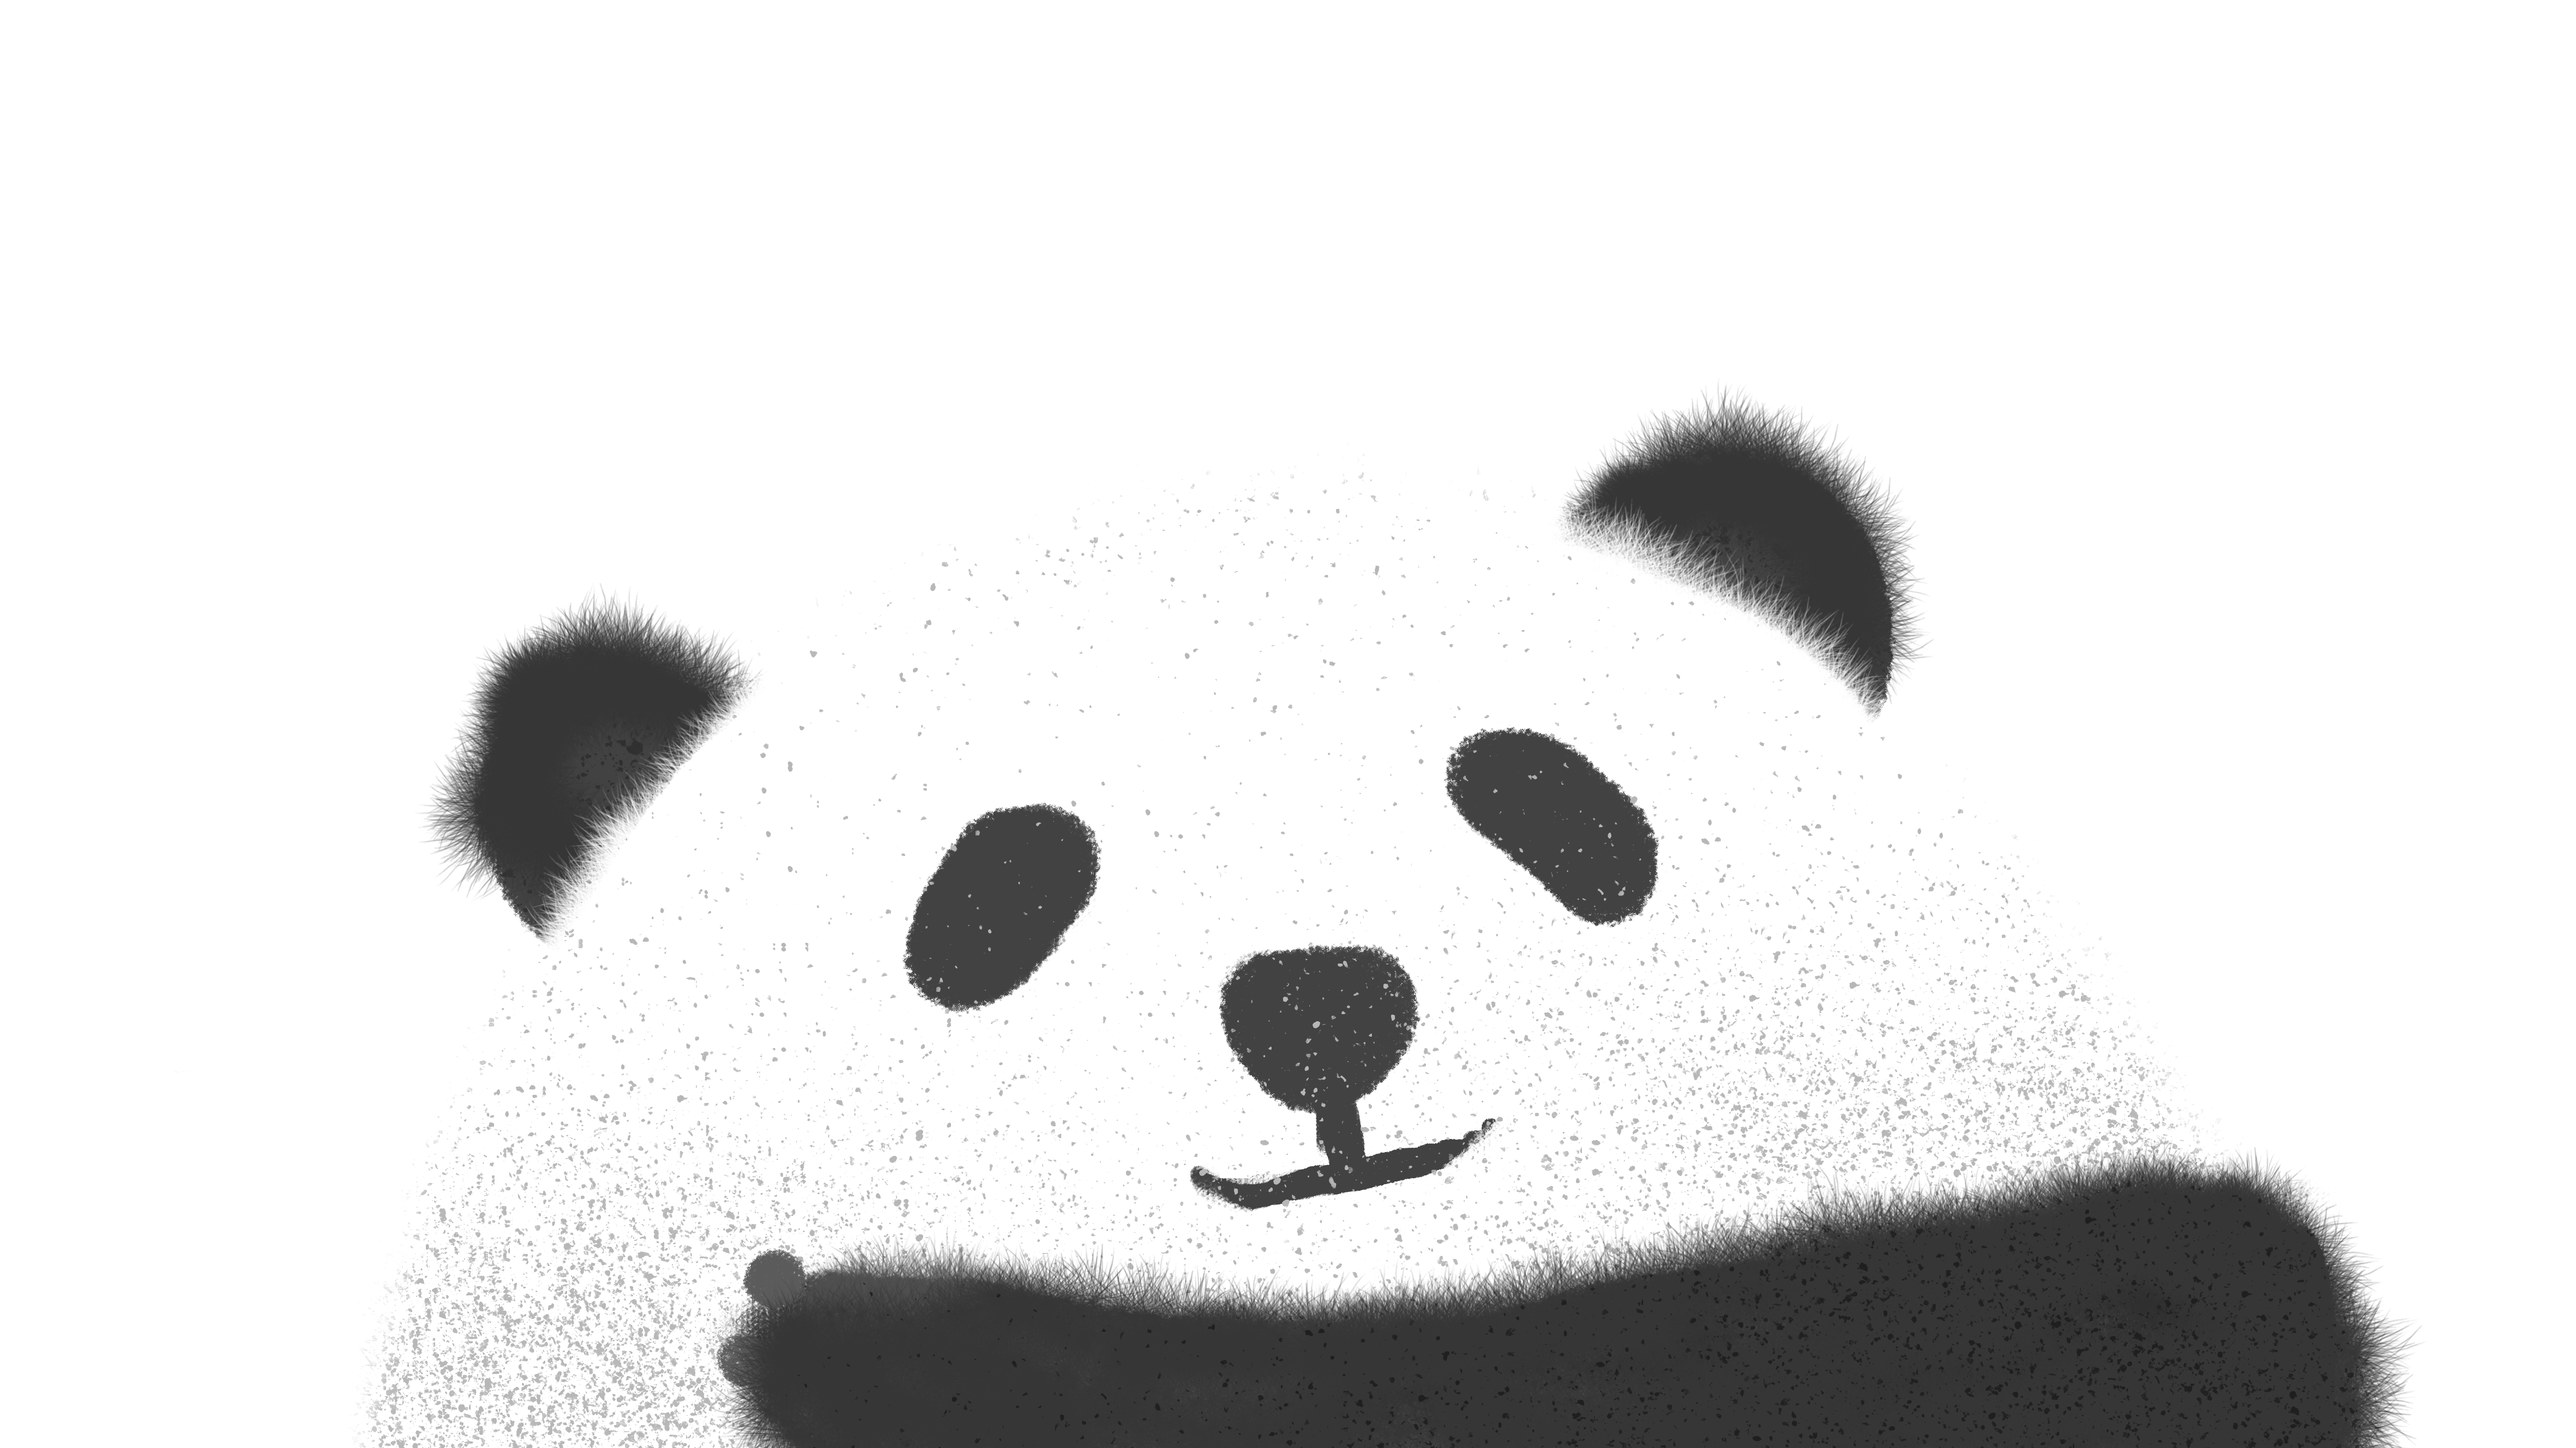
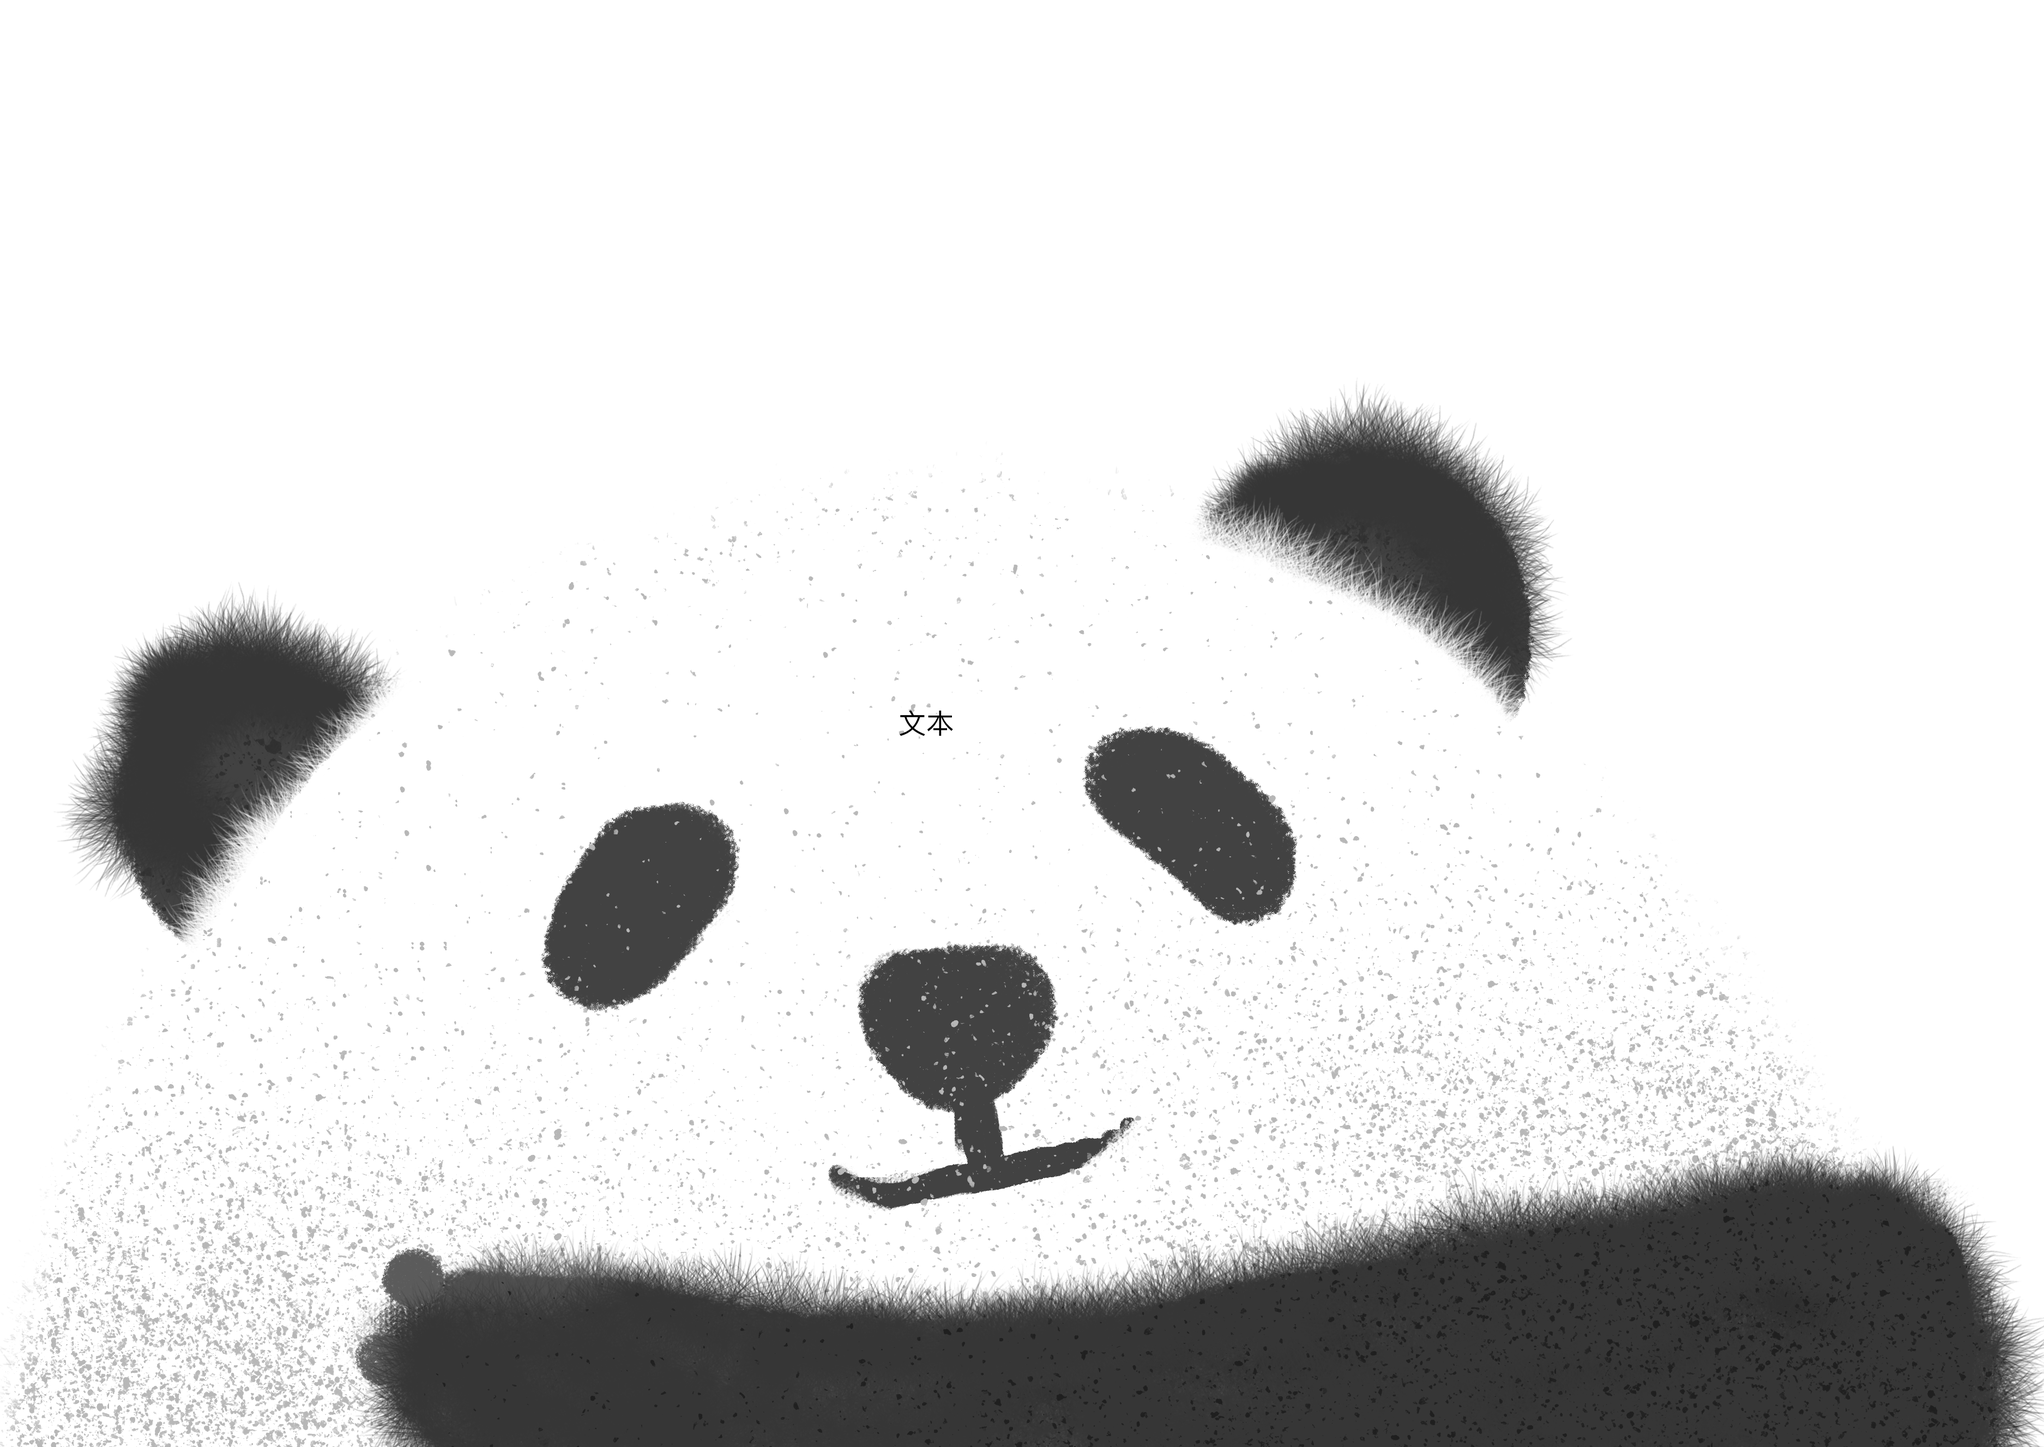
new component panda

diff --git a/src/app/signin/signin.component.html b/src/app/signin/signin.component.html
@@ -3,10 +3,12 @@
   <!-- panda -->
 
     <!-- input form -->
-  <div nz-col nzOffset="9" nzSpan="6">
+  <div nz-col [nzXs]="{offset:2, span:20}" [nzSm]="{offset:5, span:14}" [nzMd]="{offset:6, span: 12}"
+       [nzLg]="{offset:8, span:8}" [nzXl]="{offset:9, span:6}" [nzXl]="{offset:10, span:4}" [nzXXl]="{offset:10, span:4}" nzOffset="9" nzSpan="6">
+
     <div nz-row>
-      <div class="panda" nz-col nzOffset="5" nzSpan="14">
-        <img class="img-response" src="../../assets/img/panda/body.png">
+      <div class="panda" nz-col nzOffset="7" nzSpan="10">
+        <app-panda></app-panda>
       </div>
     </div>
 
@@ -17,17 +19,34 @@
 
       <form  nz-form nzLayout="vertical" [formGroup]="validateForm" class="login-form" (ngSubmit)="submitForm()">
         <nz-form-item >
-          <nz-form-control  nzOffset="1" nzSpan="22">
+          <nz-form-control  nzOffset="1" nzSpan="22" nzHasFeedback>
             <nz-input-group nzPrefixIcon="anticon anticon-user">
-              <input type="text" nz-input formControlName="userName" placeholder="Username">
+              <input type="text" nzSize="small" nz-input formControlName="userName" placeholder="Username or e-mail">
             </nz-input-group>
+            <nz-form-explain *ngIf="validateForm.get('userName').dirty && validateForm.get('userName').errors || validateForm.get('userName').pending ">
+              <ng-container *ngIf="validateForm.get('userName').hasError('required')">
+                Please enter your username or e-mail!
+              </ng-container>
+              <ng-container *ngIf="validateForm.get('userName').hasError('minlength')">
+                too short (minimum is 4 characters)!
+              </ng-container>
+              <ng-container *ngIf="validateForm.get('userName').hasError('maxlength')">
+                too long (maximum is 20 characters)!
+              </ng-container>
+              <ng-container *ngIf="validateForm.get('userName').hasError('forbiddenName')">
+                Username is invalid!
+              </ng-container>
+              <ng-container *ngIf="validateForm.get('userName').hasError('forbiddenEmail')">
+                Email is invalid!
+              </ng-container>
+            </nz-form-explain>
           </nz-form-control>
         </nz-form-item>
 
         <nz-form-item>
           <nz-form-control nzOffset="1" nzSpan="22">
             <nz-input-group nzPrefixIcon="anticon anticon-lock">
-              <input type="text" nz-input formControlName="Password" placeholder="Password">
+              <input type="password" nzSize="small" nz-input formControlName="password" placeholder="Password">
             </nz-input-group>
           </nz-form-control>
         </nz-form-item>

diff --git a/src/app/signin/forbidden-signin.ts b/src/app/signin/forbidden-signin.ts
@@ -1,35 +1,36 @@
-import {AbstractControl, Validator, ValidatorFn, Validators} from '@angular/forms';
+import {AbstractControl, ValidatorFn} from '@angular/forms';
 
+const at: RegExp = /^.*[@]+.*$/
 const email: RegExp = /^([A-Za-z0-9_\-\.])+\@([A-Za-z0-9_\-\.])+\.([A-Za-z]{2,4})$/ ;
-const username: RegExp = /^[a-zA-Z0-9_-]{4,16}$/ ;
+const username: RegExp = /^[a-zA-Z0-9_-]*$/ ;
 
 export function forbiddenUsernameValidator(): ValidatorFn {
   return (control: AbstractControl): {[key: string]: any} | null => {
     let forbidden: Boolean;
-    if (email.test(control.value)) {
+    if (at.test(control.value)) {
+      forbidden = false;
+    } else {
       if (username.test(control.value)) {
         forbidden = false;
       } else {
         forbidden = true;
       }
-    } else {
-      forbidden = true;
     }
-    return null;
+    return forbidden ? {'forbiddenName': {value: control.value}} : null;
   };
 }
 export function forbiddenEmailValidator(): ValidatorFn {
   return (control: AbstractControl): {[key: string]: any} | null => {
     let forbidden: Boolean;
-    if (email.test(control.value)) {
-      if (username.test(control.value)) {
+    if (!at.test(control.value)) {
+      forbidden = false;
+    } else {
+      if (email.test(control.value)) {
         forbidden = false;
       } else {
         forbidden = true;
       }
-    } else {
-      forbidden = true;
     }
-    return null;
+    return forbidden ? {'forbiddenEmail': {value: control.value}} : null;
   };
 }

diff --git a/src/app/signin/signin.component.ts b/src/app/signin/signin.component.ts
@@ -1,9 +1,10 @@
 import { Component, OnInit } from '@angular/core';
+import { forbiddenUsernameValidator, forbiddenEmailValidator} from './forbidden-signin';
 import {
   AbstractControl,
-  FormBuilder,
   FormGroup,
-  Validators
+  FormControl,
+  Validators,
 } from '@angular/forms';
 
 @Component({
@@ -13,21 +14,23 @@ import {
 })
 export class SigninComponent implements OnInit {
   validateForm: FormGroup;
-  constructor(private fb: FormBuilder) { }
-
+  constructor() { }
   ngOnInit(): void {
-    this.validateForm = this.fb.group({
-    userName: [null, [Validators.required]],
-    password: [null, [Validators.required]],
-      remember: [true],
+    this.validateForm = new FormGroup({
+      'userName': new FormControl(null,
+        [Validators.required, Validators.minLength(4), Validators.maxLength(20),
+          forbiddenUsernameValidator(), forbiddenEmailValidator()]),
+      'password': new FormControl(null,
+        [Validators.required]),
+      'remember': new FormControl(true)
     });
   }
   submitForm(): void {
     for (const i in this.validateForm.controls) {
-      if (this.validateForm.controls.hasOwnProperty(i)) {
         this.validateForm.controls[ i ].markAsDirty();
         this.validateForm.controls[ i ].updateValueAndValidity();
-      }
     }
   }
+  get username() { return this.validateForm.get('userName'); }
+  get password() { return this.validateForm.get('password'); }
 }

diff --git a/src/app/app.module.ts b/src/app/app.module.ts
@@ -26,7 +26,8 @@ import { Eachinfo1Component } from './userinfo/detailinfo/eachinfo1/eachinfo1.co
 import { Eachinfo2Component } from './userinfo/detailinfo/eachinfo2/eachinfo2.component';
 import { LikeinfoComponent } from './userinfo/detailinfo/likeinfo/likeinfo.component';
 import { SigninComponent } from './signin/signin.component';
-import { ForbiddenSigninDirective } from './signin/forbidden-signin.directive';
+import { PandaComponent } from './panda/panda.component';
+
 
 registerLocaleData(zh);
 
@@ -48,7 +49,7 @@ registerLocaleData(zh);
     Eachinfo2Component,
     LikeinfoComponent,
     SigninComponent,
-    ForbiddenSigninDirective,
+    PandaComponent,
   ],
   imports: [
     BrowserModule,

diff --git a/src/app/panda/panda.component.spec.ts b/src/app/panda/panda.component.spec.ts
@@ -1,0 +1,25 @@
+import { async, ComponentFixture, TestBed } from '@angular/core/testing';
+
+import { PandaComponent } from './panda.component';
+
+describe('PandaComponent', () => {
+  let component: PandaComponent;
+  let fixture: ComponentFixture<PandaComponent>;
+
+  beforeEach(async(() => {
+    TestBed.configureTestingModule({
+      declarations: [ PandaComponent ]
+    })
+    .compileComponents();
+  }));
+
+  beforeEach(() => {
+    fixture = TestBed.createComponent(PandaComponent);
+    component = fixture.componentInstance;
+    fixture.detectChanges();
+  });
+
+  it('should create', () => {
+    expect(component).toBeTruthy();
+  });
+});

diff --git a/src/app/panda/panda.component.less b/src/app/panda/panda.component.less
@@ -1,0 +1,28 @@
+.panda-hand{
+  max-width: 20%;
+  height:auto;
+  //position: absolute;
+  //right:140px;
+  //top: 70px;
+  order: -1;
+  z-index: -1;
+}
+
+.panda-body{
+  position:relative;
+  right:3px;
+}
+
+.panda{
+  position: relative;
+  top:100px;
+  display: flex;
+  display: -webkit-flex;
+  align-items: flex-end;
+  justify-content:center;
+}
+
+.img-response{
+  max-width: 100%;
+  height:auto;
+}

diff --git a/src/app/panda/panda.component.ts b/src/app/panda/panda.component.ts
@@ -1,0 +1,15 @@
+import { Component, OnInit } from '@angular/core';
+
+@Component({
+  selector: 'app-panda',
+  templateUrl: './panda.component.html',
+  styleUrls: ['./panda.component.less']
+})
+export class PandaComponent implements OnInit {
+
+  constructor() { }
+
+  ngOnInit() {
+  }
+
+}

diff --git a/src/app/signin/signin.component.less b/src/app/signin/signin.component.less
@@ -1,17 +1,9 @@
 .sign-in-form {
-  max-width: 400px;
+  max-width: 500px;
   position: relative;
   top: 100px;
   background-color: #FFFFFF;
   border-radius: 15px;
-}
-.panda{
-  position: relative;
-  top:100px;
-}
-.img-response{
-  width: 100%;
-  height:auto;
 }
 
 .sign-in-title{

diff --git a/src/app/panda/panda.component.html b/src/app/panda/panda.component.html
@@ -1,0 +1,4 @@
+<div class="panda">
+  <img class="img-response panda-body" src="../../assets/img/panda/body.png">
+  <img class="panda-hand" src="../../assets/img/panda/hand.png">
+</div>
